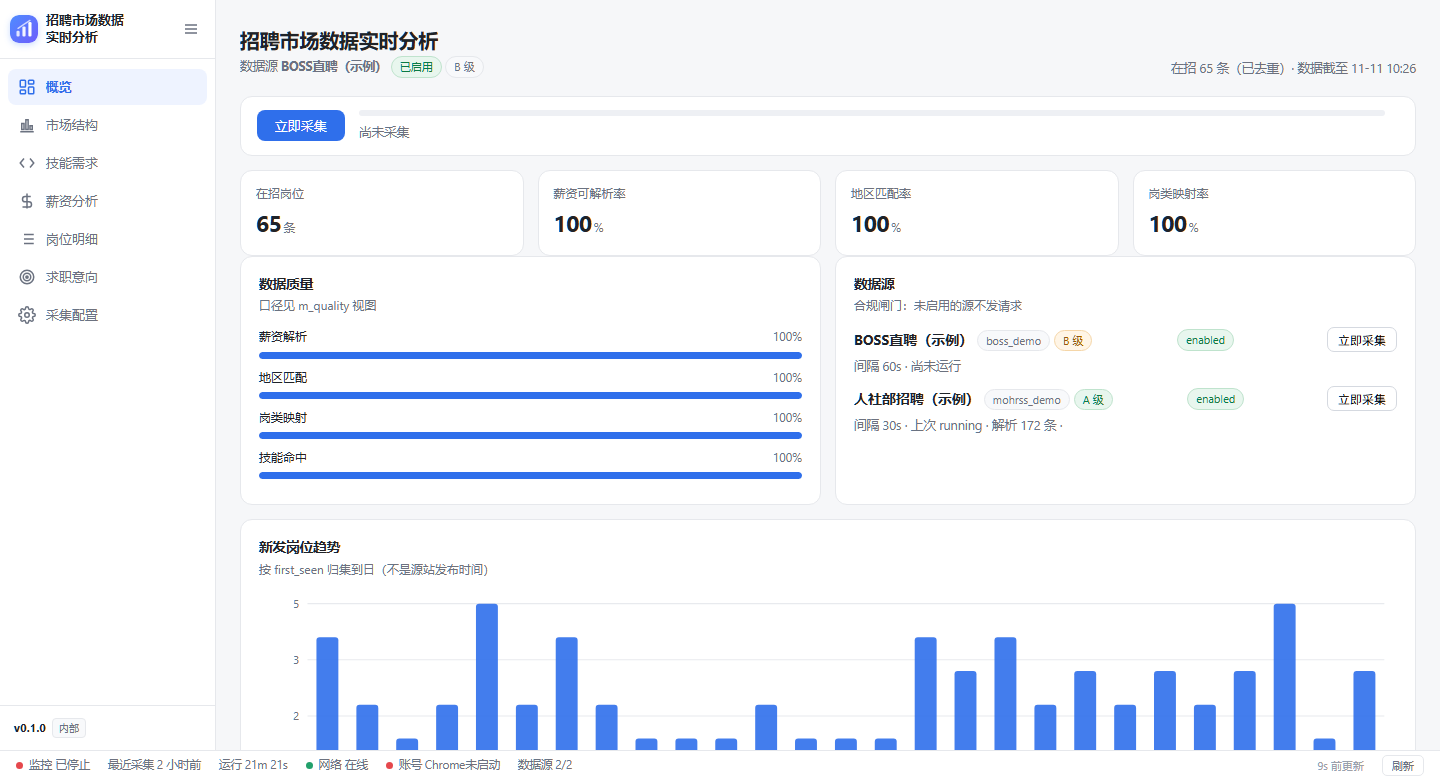
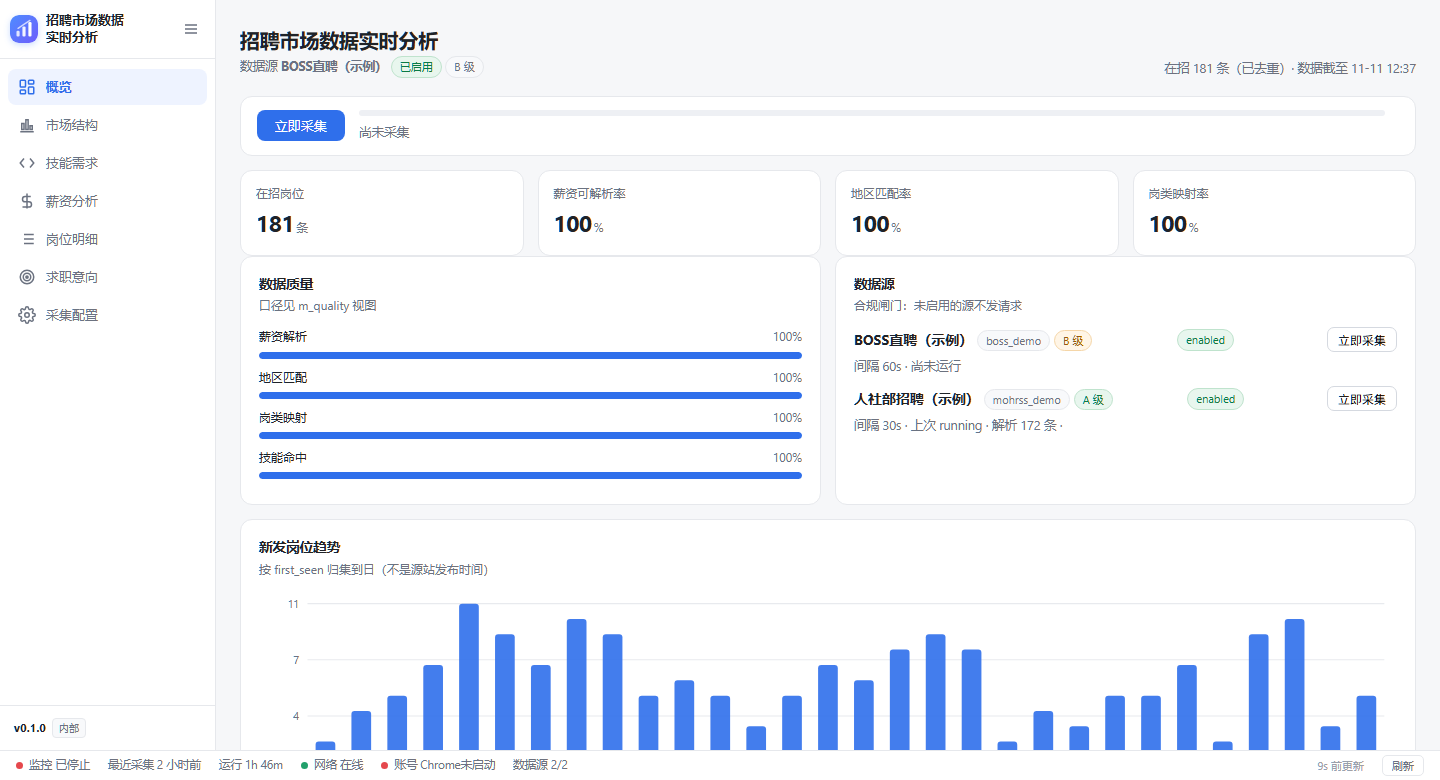
docs: README 补三张看板截图与演示数据脚本
新增 tools/demo_seed.py 灌合成演示数据，截图全部由它生成。

Changed region(s): [[0.1562, 0.7692, 0.9688, 1.0], [0.1562, 0.2769, 0.2188, 0.3077], [0.8125, 0.0615, 0.8438, 0.0923]]

diff --git a/tools/demo_seed.py b/tools/demo_seed.py
@@ -1,0 +1,172 @@
+"""往测试库灌入一套「全合成」的演示数据，用于给 README 截图或本地看效果。
+
+为什么需要它：看板要看到效果得先有数据，但**真实抓取的数据不能拿来做截图**——
+里面有真实公司名、真实岗位明细。本脚本只写虚构内容：公司名统一带"示例"，
+岗位标题带"（示例）"，薪资按合成分布随机，URL 全部指向 example.invalid。
+
+用法：
+
+    python tools/demo_seed.py            # 灌数据（会先清空测试库的业务表）
+    python tools/demo_seed.py --dry-run  # 只看会动哪些表，不写库
+
+安全闸：只允许对库名以 `_test` 结尾的数据库执行，防止误清业务库。
+"""
+
+import argparse
+import hashlib
+import os
+import random
+import sys
+from datetime import datetime, timedelta
+
+import psycopg
+
+ROOT = os.path.dirname(os.path.dirname(os.path.abspath(__file__)))
+sys.path.insert(0, ROOT)
+
+from jobmvp.env import load_env  # noqa: E402
+
+# 清空范围：与 tests/conftest.py 对齐，另加采集计划相关表
+TABLES = (
+    "job_event, parse_error, job, run_log, audit_log, unmapped_term,"
+    " dict_category, dict_skill, dict_region, source_config, job_preference,"
+    " scrape_plan, scrape_step_log"
+)
+
+COMPANIES = [
+    "星辰示例科技", "云梯示例数据", "硅谷示例信息", "青竹示例软件",
+    "远山示例智能", "长河示例网络", "白鹭示例计算", "南岭示例电子",
+]
+CITIES = [
+    ("西安", "雁塔区", "610113"), ("西安", "高新区", "610131"), ("成都", "武侯区", "510107"),
+    ("北京", "海淀区", "110108"), ("上海", "浦东新区", "310115"), ("深圳", "南山区", "440305"),
+    ("杭州", "滨江区", "330108"), ("武汉", "洪山区", "420111"),
+]
+CATS = {
+    "后端开发": ["C++", "Go", "Java", "PostgreSQL", "Redis", "Linux"],
+    "前端开发": ["TypeScript", "Vue", "React", "Webpack"],
+    "算法/AI": ["PyTorch", "Python", "CUDA", "Transformer"],
+    "测试": ["Selenium", "Pytest", "接口测试"],
+    "运维/SRE": ["Kubernetes", "Docker", "Prometheus", "Shell"],
+    "嵌入式/硬件": ["C", "STM32", "FreeRTOS", "Verilog"],
+    "数据": ["SQL", "Spark", "Airflow", "Pandas"],
+    "网络安全": ["渗透测试", "BurpSuite", "等保"],
+    "移动开发": ["Kotlin", "Swift", "Flutter"],
+}
+TITLES = {
+    "后端开发": ["后端开发工程师", "服务端开发工程师", "C++ 开发工程师", "Go 后端工程师"],
+    "前端开发": ["前端开发工程师", "Web 前端工程师", "前端架构师"],
+    "算法/AI": ["算法工程师", "机器学习工程师", "CV 算法工程师"],
+    "测试": ["测试开发工程师", "自动化测试工程师", "软件测试工程师"],
+    "运维/SRE": ["运维开发工程师", "SRE 工程师", "云平台运维工程师"],
+    "嵌入式/硬件": ["嵌入式软件工程师", "硬件工程师", "驱动开发工程师"],
+    "数据": ["数据开发工程师", "数据分析师", "数仓工程师"],
+    "网络安全": ["安全工程师", "渗透测试工程师", "安全运营工程师"],
+    "移动开发": ["Android 开发工程师", "iOS 开发工程师", "Flutter 开发工程师"],
+}
+EDUS = ["大专", "本科", "本科", "本科", "硕士"]
+
+
+def resolve_dsn() -> str:
+    """取测试库 DSN：优先环境变量，其次 .env 里的 TEST_DSN。"""
+    dsn = os.environ.get("TEST_DSN") or load_env().get("TEST_DSN")
+    if not dsn:
+        raise SystemExit("未配置 TEST_DSN（环境变量或 .env）")
+    name = dsn.rsplit("/", 1)[-1].split("?")[0]
+    if not name.endswith("_test"):
+        raise SystemExit("安全检查未通过：目标库 `{0}` 不以 _test 结尾，拒绝写入".format(name))
+    return dsn
+
+
+def seed(dsn: str, dry_run: bool = False) -> None:
+    """清空业务表并写入合成数据：2 个来源、6 次运行、200 条岗位。"""
+    random.seed(20261111)          # 固定种子，保证每次截图一致
+    now = datetime.now().astimezone()
+
+    if dry_run:
+        print("[dry-run] 将清空这些表：{0}".format(TABLES))
+        print("[dry-run] 将写入 2 个来源 / 6 次运行 / 200 条岗位 / 4 条未映射 / 3 条审计")
+        return
+
+    with psycopg.connect(dsn, autocommit=True) as conn, conn.cursor() as cur:
+        cur.execute("TRUNCATE {0} RESTART IDENTITY CASCADE".format(TABLES))
+
+        cur.execute(
+            "INSERT INTO source_config (source_id, name, tier, enabled, min_interval_s, max_pages,"
+            " field_whitelist, approval_note) VALUES"
+            " ('mohrss_demo', '人社部招聘（示例）', 'A', true, 30, 50, %s, NULL),"
+            " ('boss_demo', 'BOSS直聘（示例）', 'B', true, 60, 20, %s, '仅演示，不采集真实站点')",
+            (["title", "company", "city", "salary", "skills"], ["title", "company", "city", "salary", "skills"]),
+        )
+
+        # 6 次运行记录：最近一次停在 running，其余为 success
+        for i in range(5, -1, -1):
+            started = now - timedelta(days=i, minutes=7 if i else 3)
+            status = "success" if i else "running"
+            cur.execute(
+                "INSERT INTO run_log (source_id, trigger, started_at, finished_at, status, fetched,"
+                " parsed, upserted, parse_failed, closed) VALUES (%s,%s,%s,%s,%s,%s,%s,%s,%s,%s)",
+                ("mohrss_demo", "schedule" if i % 2 else "manual", started,
+                 None if status == "running" else started + timedelta(seconds=95),
+                 status, 180 + i * 7, 172 + i * 6, 40 + i, 1, 2),
+            )
+
+        rows = []
+        for i in range(200):
+            cat = random.choice(list(CATS))
+            city, district, code = random.choice(CITIES)
+            low = random.choice([6, 8, 10, 12, 15, 18, 20, 25])
+            high = low + random.choice([4, 5, 6, 8, 10])
+            skills = random.sample(CATS[cat], k=min(3, len(CATS[cat])))
+            seen = now - timedelta(days=random.randint(0, 28), hours=random.randint(0, 20))
+            sid = "demo-{0:03d}".format(i)
+            rows.append((
+                "mohrss_demo", sid, "https://example.invalid/job/{0}".format(sid),
+                random.choice(TITLES[cat]) + "（示例）",
+                cat, city, district, code,
+                "{0}-{1}K".format(low, high), "month", low, high, 12, True,
+                random.choice([1, 2, 3, 5]), random.choice([3, 5, 8]),
+                random.choice(EDUS), random.choice(COMPANIES), skills,
+                seen, seen, seen, 0,
+                "active" if i % 11 else "closed",
+                hashlib.sha256(sid.encode()).hexdigest(),
+            ))
+        cur.executemany(
+            "INSERT INTO job (source_id, source_job_id, url, title_raw, category, city, district,"
+            " region_code, salary_raw, salary_unit, salary_min, salary_max, salary_months, salary_ok,"
+            " exp_min_years, exp_max_years, edu, company_name, skills, posted_at, first_seen,"
+            " last_seen, miss_count, status, content_hash) VALUES"
+            " (%s,%s,%s,%s,%s,%s,%s,%s,%s,%s,%s,%s,%s,%s,%s,%s,%s,%s,%s,%s,%s,%s,%s,%s,%s)",
+            rows,
+        )
+
+        cur.execute(
+            "INSERT INTO unmapped_term (kind, term, cnt) VALUES"
+            " ('skill', 'Rust', 7), ('skill', 'Nginx', 5), ('category', '产品经理', 12), ('city', '苏州', 3)"
+        )
+        cur.execute(
+            "INSERT INTO audit_log (actor, action, target, detail) VALUES"
+            " ('console-user', 'enable_source', 'boss_demo', '{\"tier\": \"B\"}'),"
+            " ('console-user', 'run_source', 'mohrss_demo', '{\"trigger\": \"manual\"}'),"
+            " ('scheduler', 'auto_run', 'mohrss_demo', '{\"interval_s\": 30}')"
+        )
+        cur.execute(
+            "INSERT INTO job_preference (cities, salary_min, salary_max, exp_min, exp_max, skills, categories)"
+            " VALUES (ARRAY['西安','成都'], 15, 25, 2, 6, ARRAY['C++','Go','PostgreSQL'],"
+            " ARRAY['后端开发','运维/SRE'])"
+        )
+        cur.execute("SELECT count(*) FROM job")
+        print("演示数据写入完成，job 行数 = {0}".format(cur.fetchone()[0]))
+
+
+def main() -> int:
+    """解析参数并执行。"""
+    parser = argparse.ArgumentParser(description="往测试库灌入合成演示数据")
+    parser.add_argument("--dry-run", action="store_true", help="只打印计划，不写库")
+    args = parser.parse_args()
+    seed(resolve_dsn(), args.dry_run)
+    return 0
+
+
+if __name__ == "__main__":
+    sys.exit(main())

diff --git a/README.md b/README.md
@@ -25,6 +25,20 @@
 > 看板概览页：KPI、数据质量、数据源合规闸门、新发岗位趋势。**截图为演示数据，全部虚构** ——
 > 公司名统一带"示例"字样，岗位与薪资是合成分布，不含任何真实岗位、公司或个人信息。
 
+<details>
+<summary>展开看另外三页：市场结构 / 技能需求 / 薪资分析</summary>
+
+![市场结构](docs/images/market.png)
+
+![技能需求](docs/images/skills.png)
+
+![薪资分析](docs/images/salary.png)
+
+</details>
+
+> 以上截图全部由 `tools/demo_seed.py` 灌入的合成数据生成（公司名带"示例"、岗位标题带"（示例）"、
+> 链接指向 `example.invalid`），可直接复现，不涉及任何真实抓取内容。
+
 ## 0. 项目简介
 
 ### 这是什么
